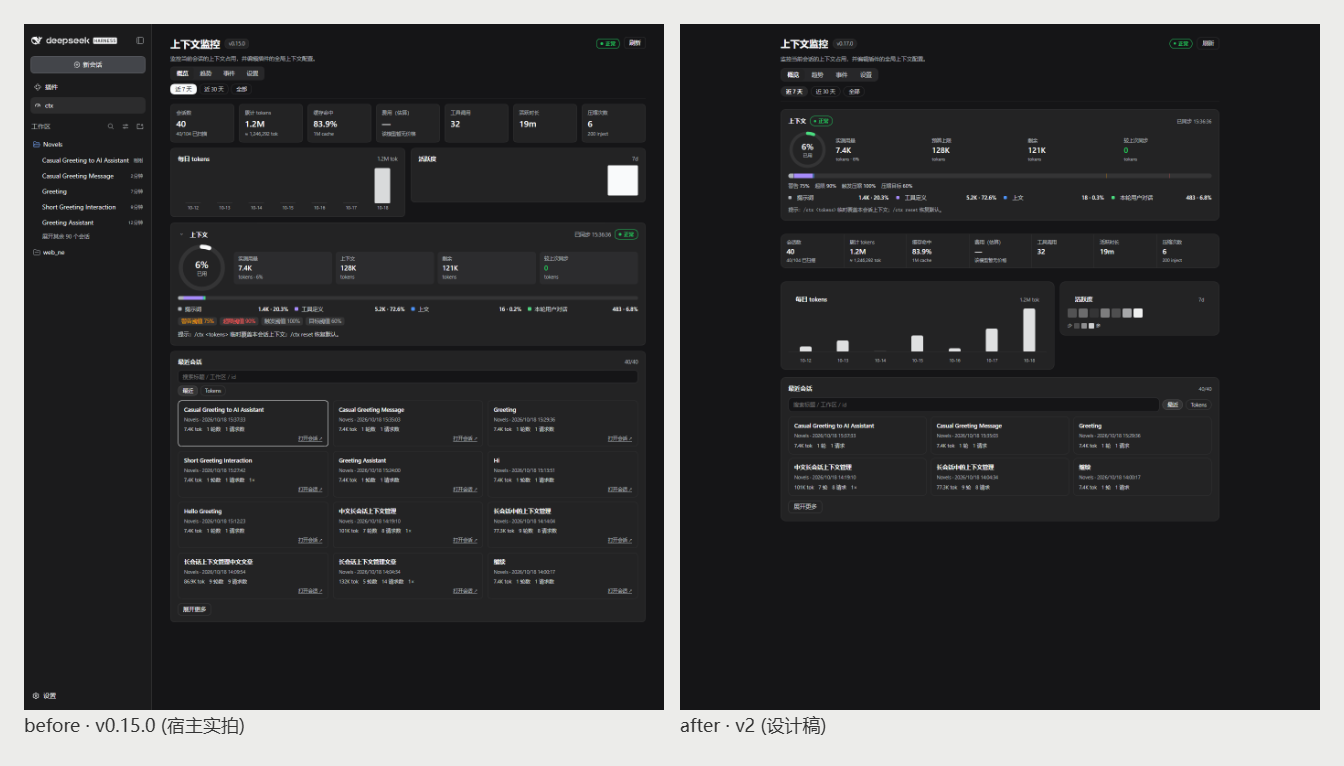
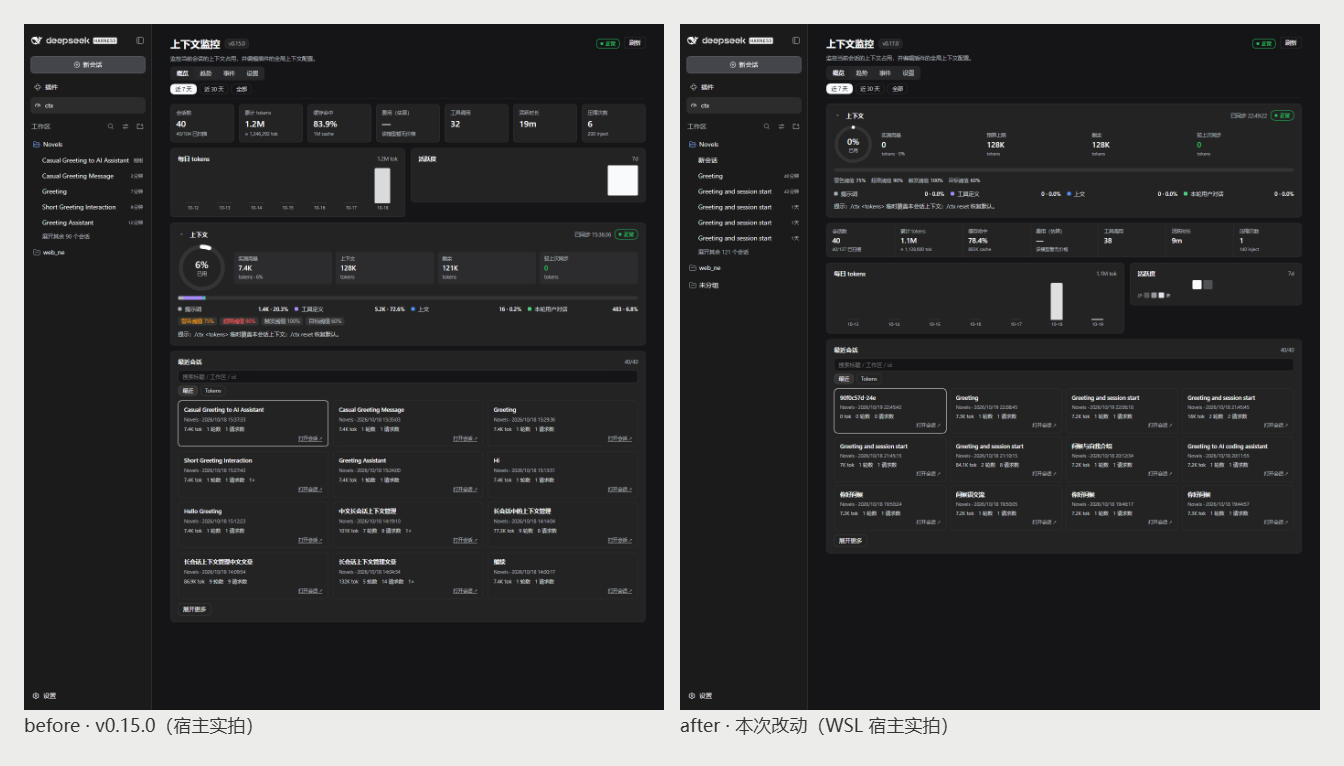
fix(ctx-mon-and-con): 概览页 hero 真正前置，0% 水位条不再留残留色块
宿主实测发现：
- CtxPanel 概览页推送顺序仍是 KPI -> 图 -> 上下文，hero 未前置
- 用量的 0% 时 MeterBar/SegmentedBar 的 min-width 让空条露出 2px 色块
- 中文"上下文"标签与卡片标题、与"剩余"撞词，改用新键 budgetLimit（预算上限）

真机证据（WSL web profile 实拍）见 explore/shots/host-*.png，
前后对比与复核记录见 explore/DESIGN-NOTES.md。

diff --git a/ctx-mon-and-con/client.js b/ctx-mon-and-con/client.js
@@ -33,6 +33,7 @@ window.__ModuleLoader__.load({
       versionLabel: 'Plugin version',
       description: 'Monitors this session’s context usage and edits the plugin’s global context limit.',
       budget: 'Context limit',
+      budgetLimit: 'Budget cap',
       used: 'Measured',
       remaining: 'Remaining',
       ratio: 'Used',
@@ -222,6 +223,7 @@ window.__ModuleLoader__.load({
       versionLabel: '插件版本',
       description: '监控当前会话的上下文占用，并编辑插件的全局上下文配置。',
       budget: '上下文',
+      budgetLimit: '预算上限',
       used: '实测用量',
       remaining: '剩余',
       ratio: '已用',
@@ -578,6 +580,7 @@ window.__ModuleLoader__.load({
             style: {
               ...styles.barSegment,
               width: `${(grown ? usedRatio * row.share * 100 : 0).toFixed(3)}%`,
+              minWidth: grown && usedRatio > 0 ? '2px' : 0,
               background: row.color,
               transition: 'width .7s cubic-bezier(.22,.61,.36,1)',
             },
@@ -887,6 +890,8 @@ window.__ModuleLoader__.load({
           style: {
             ...styles.barFill,
             width: `${grown ? percent : 0}%`,
+            // 0% 时不画 2px 残留色块，空条就应该是空的。
+            minWidth: grown && percent > 0 ? '2px' : 0,
             background: props.color || 'var(--dsw-alias-brand-primary)',
             transition: 'width .7s cubic-bezier(.22,.61,.36,1)',
           },
@@ -1476,7 +1481,7 @@ window.__ModuleLoader__.load({
             'dl',
             { style: styles.statRow },
             h('div', { style: styles.stat, title: exact(used) }, h('span', { style: styles.kpiLabel }, t('used')), h('span', { style: styles.kpiValue }, compactTokens(used)), h('span', { style: styles.kpiSub }, `${t('tokens')} · ${formatPercent(ratio, 0)}`)),
-            h('div', { style: styles.stat, title: exact(budgetTokens) }, h('span', { style: styles.kpiLabel }, t('budget')), h('span', { style: styles.kpiValue }, compactTokens(budgetTokens)), h('span', { style: styles.kpiSub }, t('tokens'))),
+            h('div', { style: styles.stat, title: exact(budgetTokens) }, h('span', { style: styles.kpiLabel }, t('budgetLimit')), h('span', { style: styles.kpiValue }, compactTokens(budgetTokens)), h('span', { style: styles.kpiSub }, t('tokens'))),
             h('div', { style: styles.stat, title: exact(remaining) }, h('span', { style: styles.kpiLabel }, t('remaining')), h('span', { style: styles.kpiValue }, compactTokens(remaining)), h('span', { style: styles.kpiSub }, t('tokens'))),
             h(
               'div',
@@ -2693,6 +2698,8 @@ window.__ModuleLoader__.load({
       }
 
       if (tab === 'overview') {
+        // 先答"还剩多少"，再给跨会话统计与图表。
+        children.push(h(OverviewCard, { key: 'overview', t, budget, latest, live, liveAt: liveState.at, controlActive: Boolean(control.active) }))
         children.push(h(KpiBand, { key: 'kpis', t, kpi: analytics ? analytics.kpi : {}, coverage: analytics ? analytics.coverage : null }))
         if (analyticsState.error && !analytics) {
           children.push(h('div', { key: 'analyticsError', style: styles.emptyState },
@@ -2708,7 +2715,6 @@ window.__ModuleLoader__.load({
             h('div', { style: { ...styles.card, ...styles.chartNarrow } }, h(Heatmap, { t, daily: analytics.daily })),
           ))
         }
-        children.push(h(OverviewCard, { key: 'overview', t, budget, latest, live, liveAt: liveState.at, controlActive: Boolean(control.active) }))
         children.push(h(SessionCards, { key: 'sessions', t, sessions: analytics ? analytics.sessions : [], selected: detailSession, onSelect: (id) => { setSelected(id); setTab('trend') }, onOpen: (item) => { openSessionInSidebar(item.title || shortSessionId(item.id)) } }))
         if (analytics && Array.isArray(analytics.warnings) && analytics.warnings.length > 0) {
           children.push(h('div', { key: 'warnings', style: styles.banner, title: analytics.warnings.join(' | ') }, `${t('coverage').replace('{scanned}', analytics.coverage.scanned).replace('{total}', analytics.coverage.total)} · ${t('readFailures').replace('{count}', String(analytics.warnings.length))}`))

diff --git a/explore/DESIGN-NOTES.md b/explore/DESIGN-NOTES.md
@@ -45,16 +45,37 @@
 
 沿用既有的水位条 `width .7s cubic-bezier(.22,.61,.36,1)` 与环形 `stroke-dasharray .6s`，未新增动效（工具面板不做入场动画）。
 
-## 证据与局限
+## 证据
 
-- `explore/panel-v2.html`：按最终样式重建的静态设计稿（宿主 token 取自 `dsh-client-ui-theme`，深色取值）。
-- `explore/shots/v2-final.png`：设计稿 1400×1500 截图。
-- `explore/shots/before-after.png`：`docs/ui/0.15-overview.png`（宿主机实拍）与设计稿并排。
-- **未验证**：宿主内真实渲染。本机 `dsh web` 面板需要带 token 的地址，自动化拿不到；改动只动样式与排版，业务行为未改，测试全绿（static 68 / metrics 18 / control 51 / smoke 48 / prompt-state 9）。
-- 浅色主题未出稿：面板全部走宿主语义变量（仅四桶构成色是既有硬编码），浅色由宿主自动接管。
+- `explore/panel-v2.html`：设计稿（按最终样式重建的静态复刻，宿主 token 取自 `dsh-client-ui-theme`）。
+- `explore/shots/host-overview.png`、`host-settings.png`：**WSL 里真实 `dsh web` 实例的实拍**（1400×1500，概览页 / 设置页）。
+- `explore/shots/before-after.png`：左 `docs/ui/0.15-overview.png`（旧版宿主实拍）vs 右本次改动（宿主实拍）。
+- `explore/shots/v2-final.png`：设计稿截图（留档）。
+
+## 宿主复核（WSL，2026-10-19）
+
+在 WSL 的 `web` profile（`~/dsh-plugins/ctx-mon-and-con`，3080 端口实例）上同步源码后实测：
+
+| 检查 | 结果 |
+| --- | --- |
+| 环形图尺寸 | 84×84（旧 104） |
+| KPI | 单容器 7 格，容器底色为 `bg-layer-1`，格间 0.5px 分隔线 |
+| 热力图 | 格子固定 20px，「少 / 多」图例在 |
+| 会话卡 | 底色透明（不再是一块块浅色磁贴） |
+| 会话动作 | `text-decoration: none` |
+| 横向溢出 | `scrollWidth == clientWidth == 1400`，无控制台报错 |
+
+**宿主上发现并修掉的两个问题**（设计稿没暴露出来的）：
+
+1. `CtxPanel` 里概览页的推送顺序仍是 KPI → 图 → 上下文，hero 并没有真的前置；已改成 上下文 → KPI → 图。
+2. 0% 用量时水位条左侧露出 2px 残留色块（`min-width: 2px` 让空条也有一截颜色）；已在 `MeterBar` 与 `SegmentedBar` 里改成 0% 不画。
+3. 中文下「上下文」标签与卡片标题、与「剩余」撞词，改为新键 `budgetLimit`（预算上限 / Budget cap）。
 
 ## 未做
 
-- 趋势 / 事件 / 设置三个 tab 未逐屏重排（共享样式已受益）。
+- 趋势 / 事件 / 设置三个 tab 未逐屏重排（共享样式已受益；设置页已实拍确认无回归）。
 - 侧栏面板与输入框 dock 未改（沿用同一套 token）。
 - 版本号未提升。
+- hero 的**非零用量**渲染未在宿主上取到（该实例当前活动会话为 0 token，历史会话不会进入 live 数据）；这一状态由设计稿与静态断言覆盖，代码路径与旧版一致，只改了 `min-width` 与阈值刻度。
+- 浅色主题未出稿：面板全部走宿主语义变量（仅四桶构成色是既有硬编码），浅色由宿主自动接管。
+
